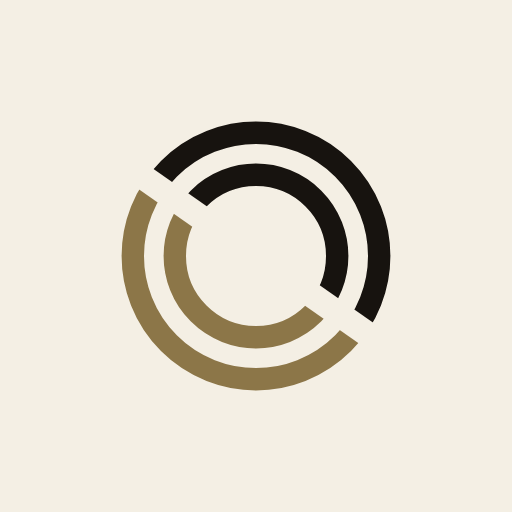
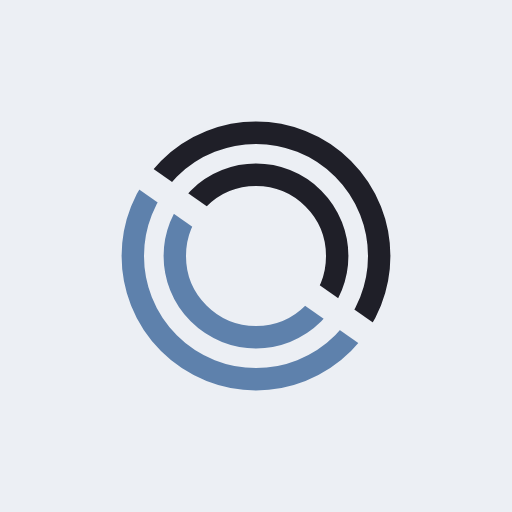
Align the brand palette with the Lateen theme tokens (#1101)

Changed region(s): [[0.2812, 0.2188, 0.7812, 0.625], [0.2188, 0.375, 0.7188, 0.7812]]

diff --git a/brand/tokens.css b/brand/tokens.css
@@ -1,13 +1,13 @@
 :root {
-  --slipway-color-canvas: #17130f;
-  --slipway-color-surface: #26201a;
-  --slipway-color-bronze: #b8975a;
-  --slipway-color-bronze-soft: #8c7648;
-  --slipway-color-ink-bronze: #5e4a26;
-  --slipway-color-tint: #d9c9a3;
-  --slipway-color-light: #f4efe4;
-  --slipway-color-text: #e6dfd0;
-  --slipway-color-mist: #a39880;
+  --slipway-color-canvas: #1f1f28;
+  --slipway-color-surface: #2a2a37;
+  --slipway-color-bronze: #7e9cd8;
+  --slipway-color-bronze-soft: #5e81ac;
+  --slipway-color-ink-bronze: #2e3440;
+  --slipway-color-tint: #dcd7ba;
+  --slipway-color-light: #eceff4;
+  --slipway-color-text: #dcd7ba;
+  --slipway-color-mist: #96938e;
 
   --slipway-font-sans: Inter, ui-sans-serif, -apple-system, BlinkMacSystemFont, "Segoe UI", sans-serif;
   --slipway-font-mono: "IBM Plex Mono", "SFMono-Regular", Consolas, "Liberation Mono", monospace;

diff --git a/brand/BRAND_GUIDE.md b/brand/BRAND_GUIDE.md
@@ -2,9 +2,9 @@
 
 Version `1.0.0` · English-only · Dark-first
 
-This guide turns the Slipway identity into reusable rules for the template, documentation, repository, and social surfaces. Every SVG and PNG here is generated; see [Generated files](#generated-files). The decision behind the mark and the palette is [ADR 0005](../docs/adr/0005-brand-mark-and-palette.md).
+This guide turns the Slipway identity into reusable rules for the template, documentation, repository, and social surfaces. Every SVG and PNG here is generated; see [Generated files](#generated-files). The decision behind the mark is [ADR 0005](../docs/adr/0005-brand-mark-and-palette.md); the palette follows the Lateen theme tokens ([`packages/theme/tokens/`](../packages/theme/tokens/)).
 
-Slipway is one of a family of products that share a visual language (rings on a 256 px canvas, dark-first, flat), each in its own color: Evergreen in green, Seaworthy in desert rose, a third product in blue, and Slipway in bronze.
+Slipway is one of a family of products that share a visual language (rings on a 256 px canvas, dark-first, flat), each in its own color: Evergreen in green, Seaworthy in desert rose, a third product in blue, and Slipway in the blue accent of its documentation theme. The mark and the theme now share one palette, so the logo, the site, and the social art match.
 
 ## Core identity
 
@@ -22,7 +22,7 @@ A slipway is the ramp a ship is built on and launched down into the water. A Sli
 The mark is two concentric rings cut by one diagonal slip, with a gap between the halves.
 
 - The part **above the slip** (light) is what you write: the source.
-- The part **below the slip** (bronze) is what ships: the site that goes into the water.
+- The part **below the slip** (the accent, token `bronze`) is what ships: the site that goes into the water.
 - The **slip** slopes at 35 degrees, the way a ramp does, and cuts both rings in one line so they read as one object.
 
 ### Approved variants
@@ -84,41 +84,43 @@ For browser tabs, app icons, and anything between 16 and 48 px, use the simplifi
 
 ## Color
 
-The canonical values are in [`tokens.json`](tokens.json), with CSS custom properties in [`tokens.css`](tokens.css). The palette is called quiet bronze: calm, low in saturation, and easy on the eyes.
+The theme is the source of truth. [`packages/theme/tokens/color.json`](../packages/theme/tokens/color.json) and [`color.light.json`](../packages/theme/tokens/color.light.json) define the night (Kanagawa) and day (Nord) palettes; [`tokens.json`](tokens.json) mirrors the values the brand needs, with CSS custom properties generated into [`tokens.css`](tokens.css). When a theme token changes, update `tokens.json` to match it and run `npm run build:brand`.
+
+The brand takes the night surfaces (`canvas`, `surface`), the night text and muted colors (`text`, `tint`, `mist`), the accent from both modes (`bronze` for dark surfaces, `bronzeSoft` for light), the day canvas (`light`), and the day text (`inkBronze`). The token names `bronze`, `bronzeSoft`, and `inkBronze` are kept so the generated assets and their tests keep working; their values are now the theme's blue accent and ink.
 
 | Token | Value | Role |
 | --- | --- | --- |
-| Canvas | `#17130F` | Primary dark canvas |
-| Surface | `#26201A` | Elevated dark surface |
-| Bronze | `#B8975A` | Main accent on dark surfaces; the lower half of the mark |
-| Bronze Soft | `#8C7648` | Accent on light surfaces, for graphics and borders only |
-| Ink Bronze | `#5E4A26` | Text and thin lines on light surfaces |
-| Tint | `#D9C9A3` | Soft highlight on dark surfaces |
-| Light | `#F4EFE4` | Primary light canvas; the upper half of the mark on dark surfaces |
-| Text | `#E6DFD0` | Body text on dark surfaces |
-| Mist | `#A39880` | Secondary text on dark surfaces |
+| Canvas | `#1F1F28` | Primary dark canvas; theme night canvas |
+| Surface | `#2A2A37` | Elevated dark surface; theme night surface |
+| Bronze | `#7E9CD8` | Main accent on dark surfaces; the lower half of the mark; theme night accent |
+| Bronze Soft | `#5E81AC` | Accent on light surfaces, for graphics and borders only; theme day accent |
+| Ink Bronze | `#2E3440` | Text and thin lines on light surfaces; theme day text |
+| Tint | `#DCD7BA` | Soft highlight on dark surfaces; theme night text |
+| Light | `#ECEFF4` | Primary light canvas; the upper half of the mark on dark surfaces; theme day canvas |
+| Text | `#DCD7BA` | Body text on dark surfaces; theme night text |
+| Mist | `#96938E` | Secondary text on dark surfaces; theme night muted |
 
 Slipway has no status colors of its own. Verification results belong to Seaworthy, and its pass, warning, and error colors are not part of this palette.
 
 ### Accessible color pairs
 
-Ratios use WCAG relative luminance. Normal text needs 4.5:1; large text and meaningful graphics need 3:1. The pairs below stay well above that, and the dark pairs stay below pure white on black on purpose: they are easier on the eyes.
+Ratios use WCAG relative luminance. Normal text needs 4.5:1; large text and meaningful graphics need 3:1. The pairs below stay above that, and the dark pairs stay below pure white on black on purpose: they are easier on the eyes.
 
 | Foreground | Background | Ratio | Approved use |
 | --- | --- | ---: | --- |
-| Text | Canvas | 13.93:1 | Text and UI |
-| Text | Surface | 12.14:1 | Text and UI |
-| Light | Canvas | 16.11:1 | Text and UI; the light half of the mark |
-| Tint | Canvas | 11.29:1 | Text and UI |
-| Bronze | Canvas | 6.70:1 | Text and UI; the lower half of the mark |
-| Bronze | Surface | 5.84:1 | Text and UI |
-| Mist | Canvas | 6.48:1 | Secondary text |
-| Mist | Surface | 5.64:1 | Secondary text |
-| Canvas | Light | 16.11:1 | Text and UI; the mark on light surfaces |
-| Ink Bronze | Light | 7.37:1 | Text and UI on light surfaces |
-| Canvas | Bronze | 6.70:1 | Badge: the word slipway |
+| Text | Canvas | 11.26:1 | Text and UI |
+| Text | Surface | 9.75:1 | Text and UI |
+| Light | Canvas | 14.18:1 | Text and UI; the light half of the mark |
+| Tint | Canvas | 11.26:1 | Text and UI |
+| Bronze | Canvas | 5.94:1 | Text and UI; the lower half of the mark |
+| Bronze | Surface | 5.14:1 | Text and UI |
+| Mist | Canvas | 5.34:1 | Secondary text |
+| Mist | Surface | 4.62:1 | Secondary text |
+| Canvas | Light | 14.18:1 | Text and UI; the mark on light surfaces |
+| Ink Bronze | Light | 10.84:1 | Text and UI on light surfaces |
+| Canvas | Bronze | 5.94:1 | Badge: the word slipway |
 
-**Not approved for text:** Bronze Soft on Light (3.82:1, graphics and borders only), Bronze on Light (2.41:1), and Ink Bronze on Canvas (2.19:1). Use Ink Bronze on light surfaces and Bronze on dark ones.
+**Not approved for text:** Bronze Soft on Light (3.50:1, graphics and borders only), Bronze on Light (2.39:1), and Ink Bronze on Canvas (1.31:1). Use Ink Bronze on light surfaces and Bronze on dark ones.
 
 ## Typography
 
@@ -130,7 +132,7 @@ The generated sources use common fallbacks so they stay editable without bundled
 
 ## Built-with badge
 
-Every Slipway site may show a badge that says it was built with Slipway. It has a Surface left segment with the one-color mark and the words `built with`, and a Bronze right segment with the word `slipway`. The words carry the meaning, not the color.
+Every Slipway site may show a badge that says it was built with Slipway. It has a Surface left segment with the one-color mark and the words `built with`, and a Bronze (the accent) right segment with the word `slipway`. The words carry the meaning, not the color.
 
 ```markdown
 ![built with slipway](https://raw.githubusercontent.com/arminazimi/slipway/main/brand/assets/badge-built-with.svg)
